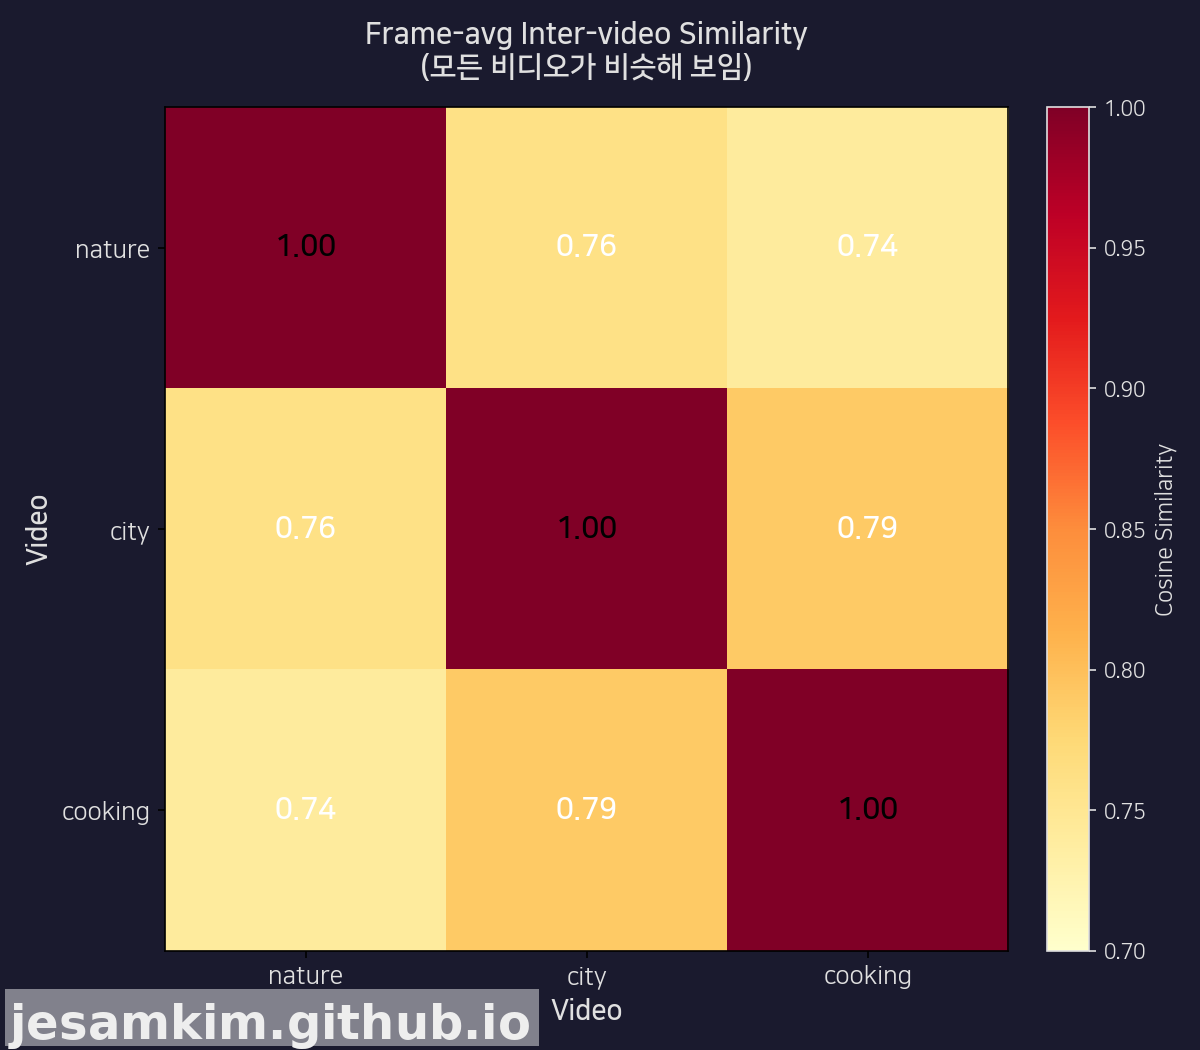
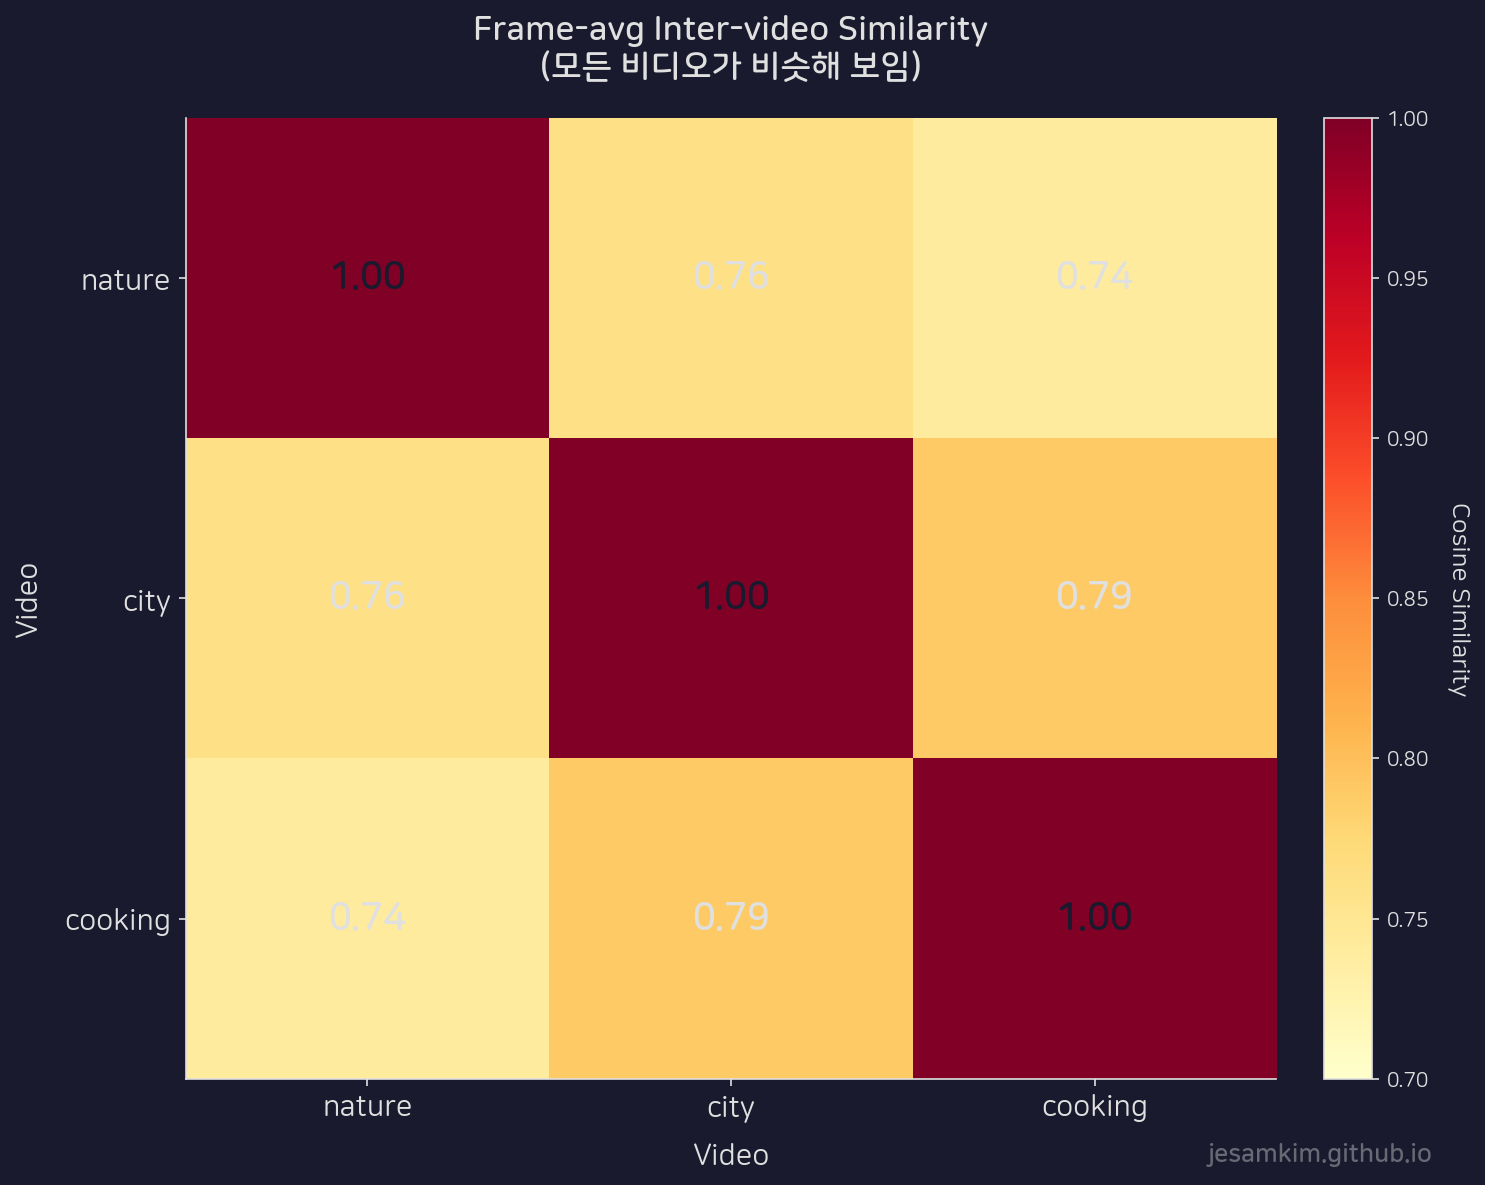
fix: reduce watermark size, fix text overflow, remove Bedrock pricing section

diff --git a/content/posts/2026-03-13-video-rag-pipeline-frame-embedding-vs-vlm.md b/content/posts/2026-03-13-video-rag-pipeline-frame-embedding-vs-vlm.md
@@ -117,15 +117,6 @@ cover:
 - Inference Profile: `us.twelvelabs.marengo-embed-3-0-v1:0`
 - 리전: US East (N. Virginia)
 
-### Bedrock 가격
-
-[Amazon Bedrock 가격 페이지](https://aws.amazon.com/bedrock/pricing/)에 따르면:
-
-- <strong>Pegasus v1.2:</strong> $0.00049/초 (비디오 입력) + $0.0075/1K 토큰 (출력)
-- <strong>Marengo Embed 3.0:</strong> 텍스트/이미지는 동기 InvokeModel API 사용, 비디오는 비동기 StartAsyncInvoke API 사용
-
-10초 비디오를 Pegasus로 요약하면 약 $0.00049 × 10 + 출력 토큰 비용 = 대략 $0.02 수준입니다.
-
 ## 5. 실전 실험: Bedrock에서 직접 비교해 보니
 
 실험 코드는 [GitHub 레포지토리](https://github.com/jesamkim/bedrock-twelvelabs)에서 확인할 수 있습니다.
@@ -282,7 +273,6 @@ Amazon Bedrock에서 Twelve Labs 모델을 사용하면, 복잡한 인프라 구
 - Pegasus-1 Technical Report: https://arxiv.org/abs/2404.14687 (Jung et al., 2024)
 - AWS Blog - TwelveLabs on Bedrock: https://aws.amazon.com/blogs/aws/twelvelabs-video-understanding-models-are-now-available-in-amazon-bedrock/
 - VideoRAG: https://arxiv.org/abs/2501.05874 (Jeong et al., 2025, ACL Findings)
-- Amazon Bedrock Pricing: https://aws.amazon.com/bedrock/pricing/
 - TwelveLabs on Bedrock: https://aws.amazon.com/bedrock/twelvelabs/
 - Bedrock Pegasus Documentation: https://docs.aws.amazon.com/bedrock/latest/userguide/model-parameters-pegasus.html
 - Bedrock Marengo Documentation: https://docs.aws.amazon.com/bedrock/latest/userguide/model-parameters-marengo.html
